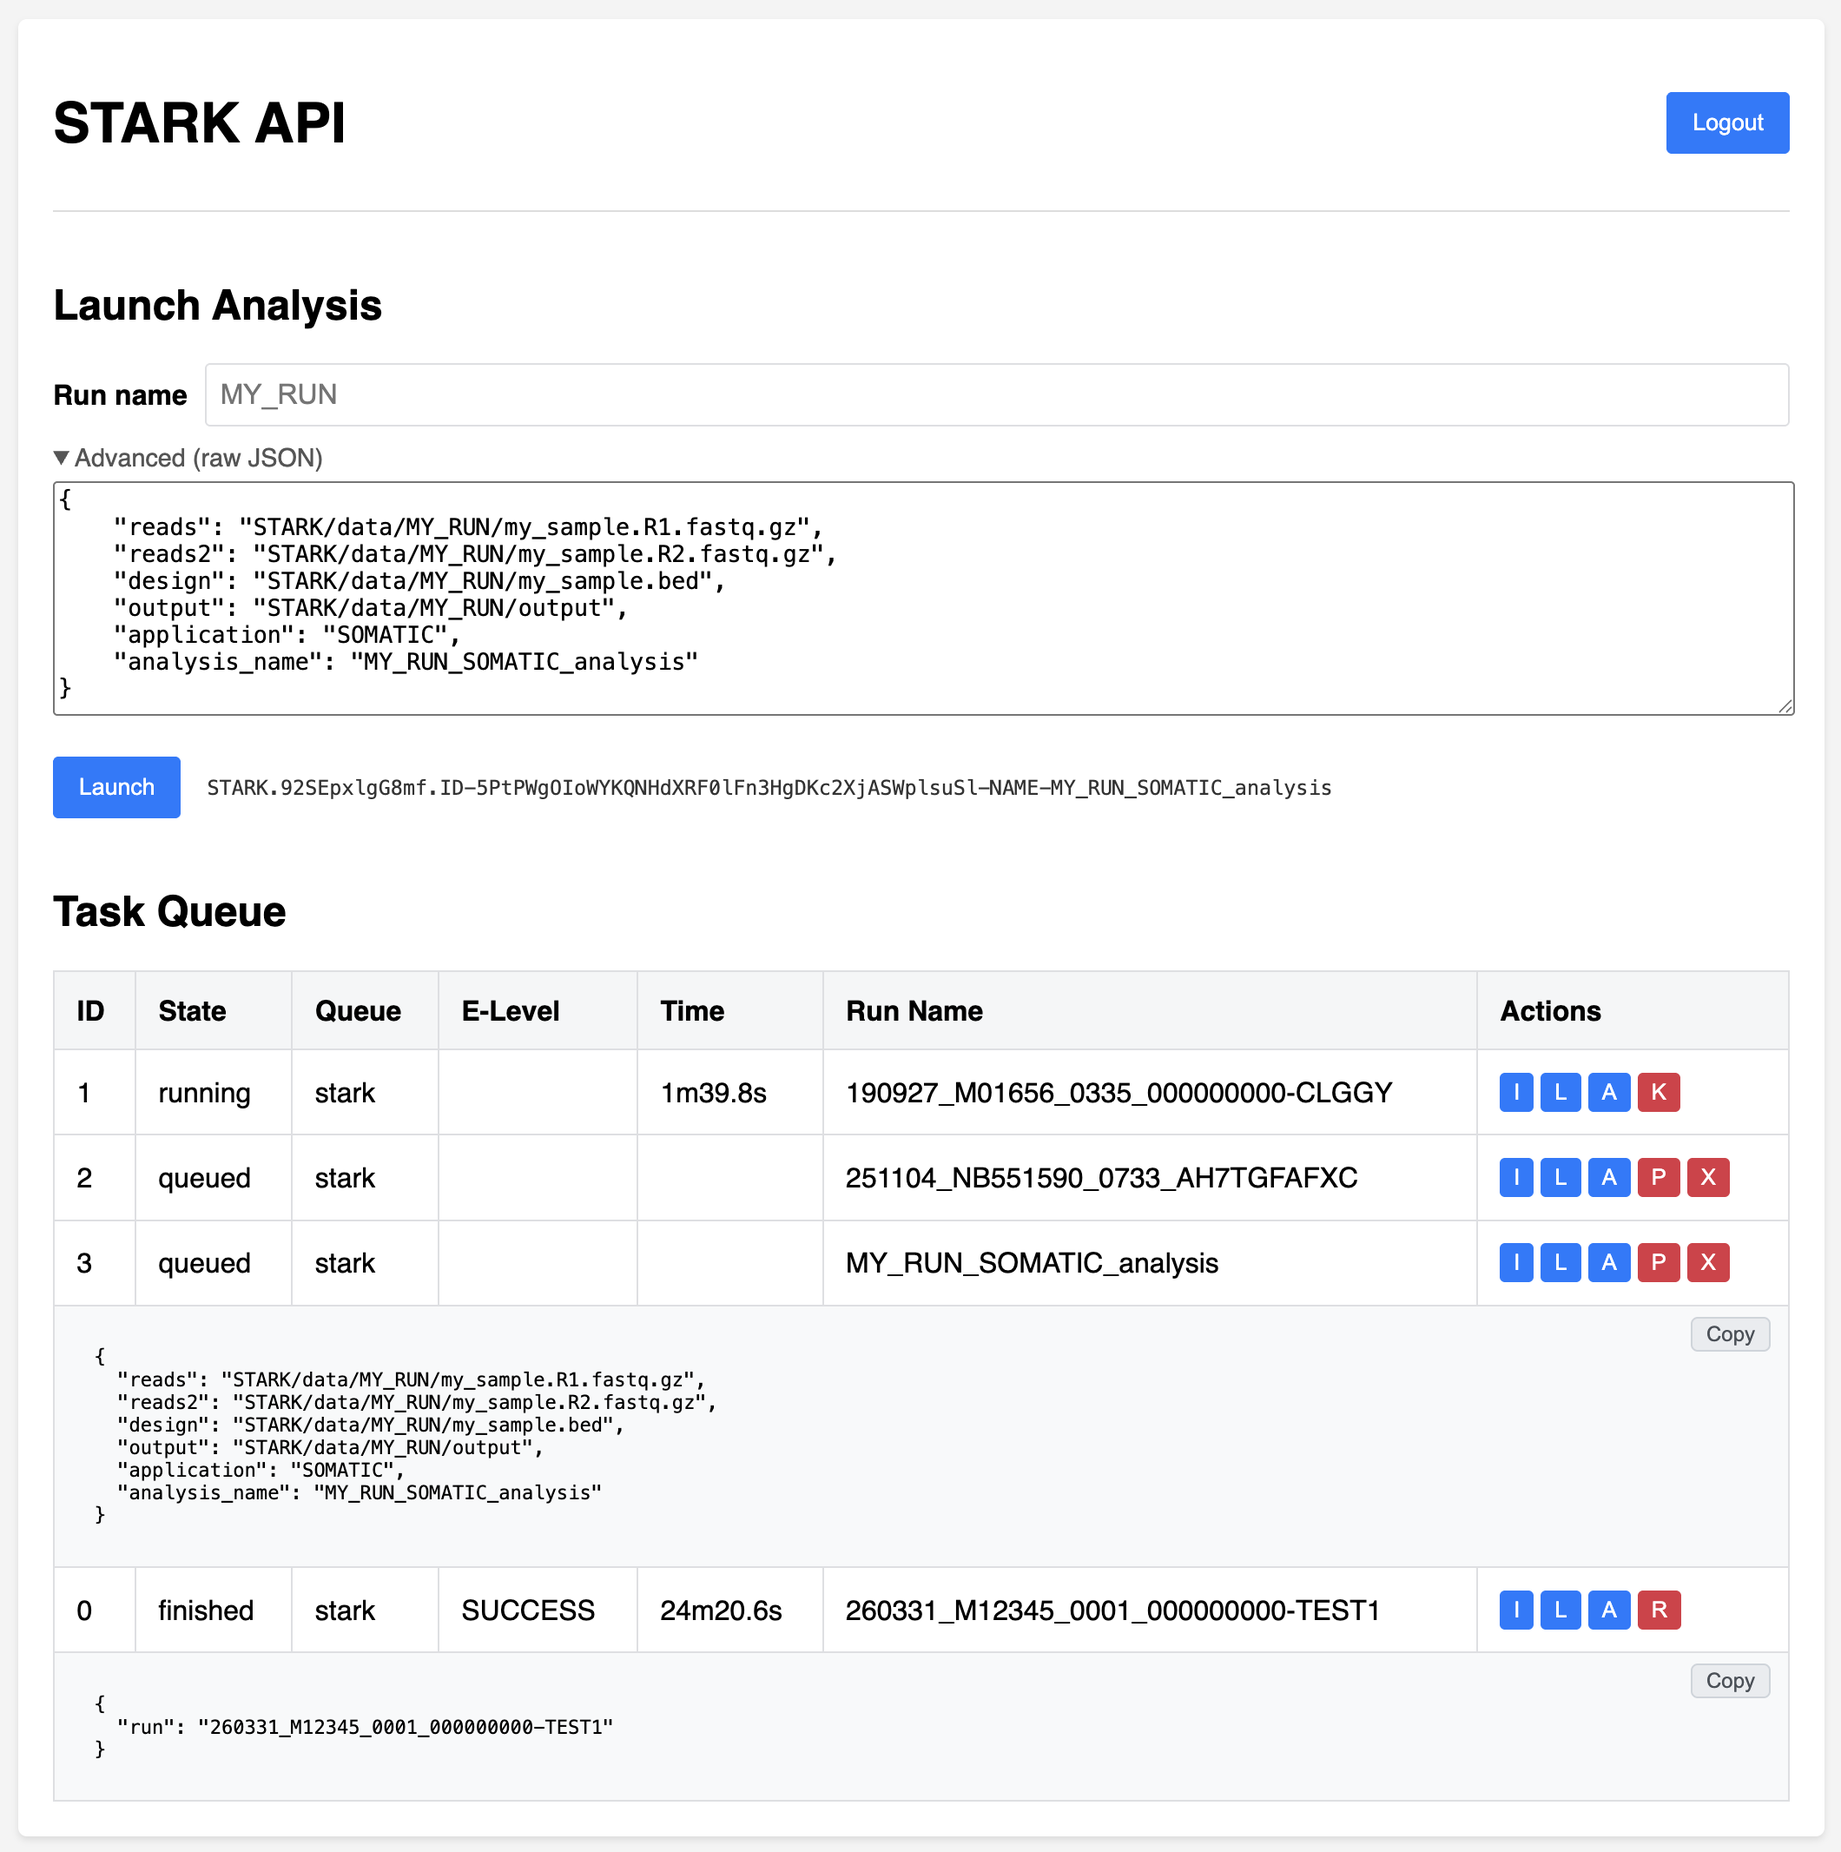
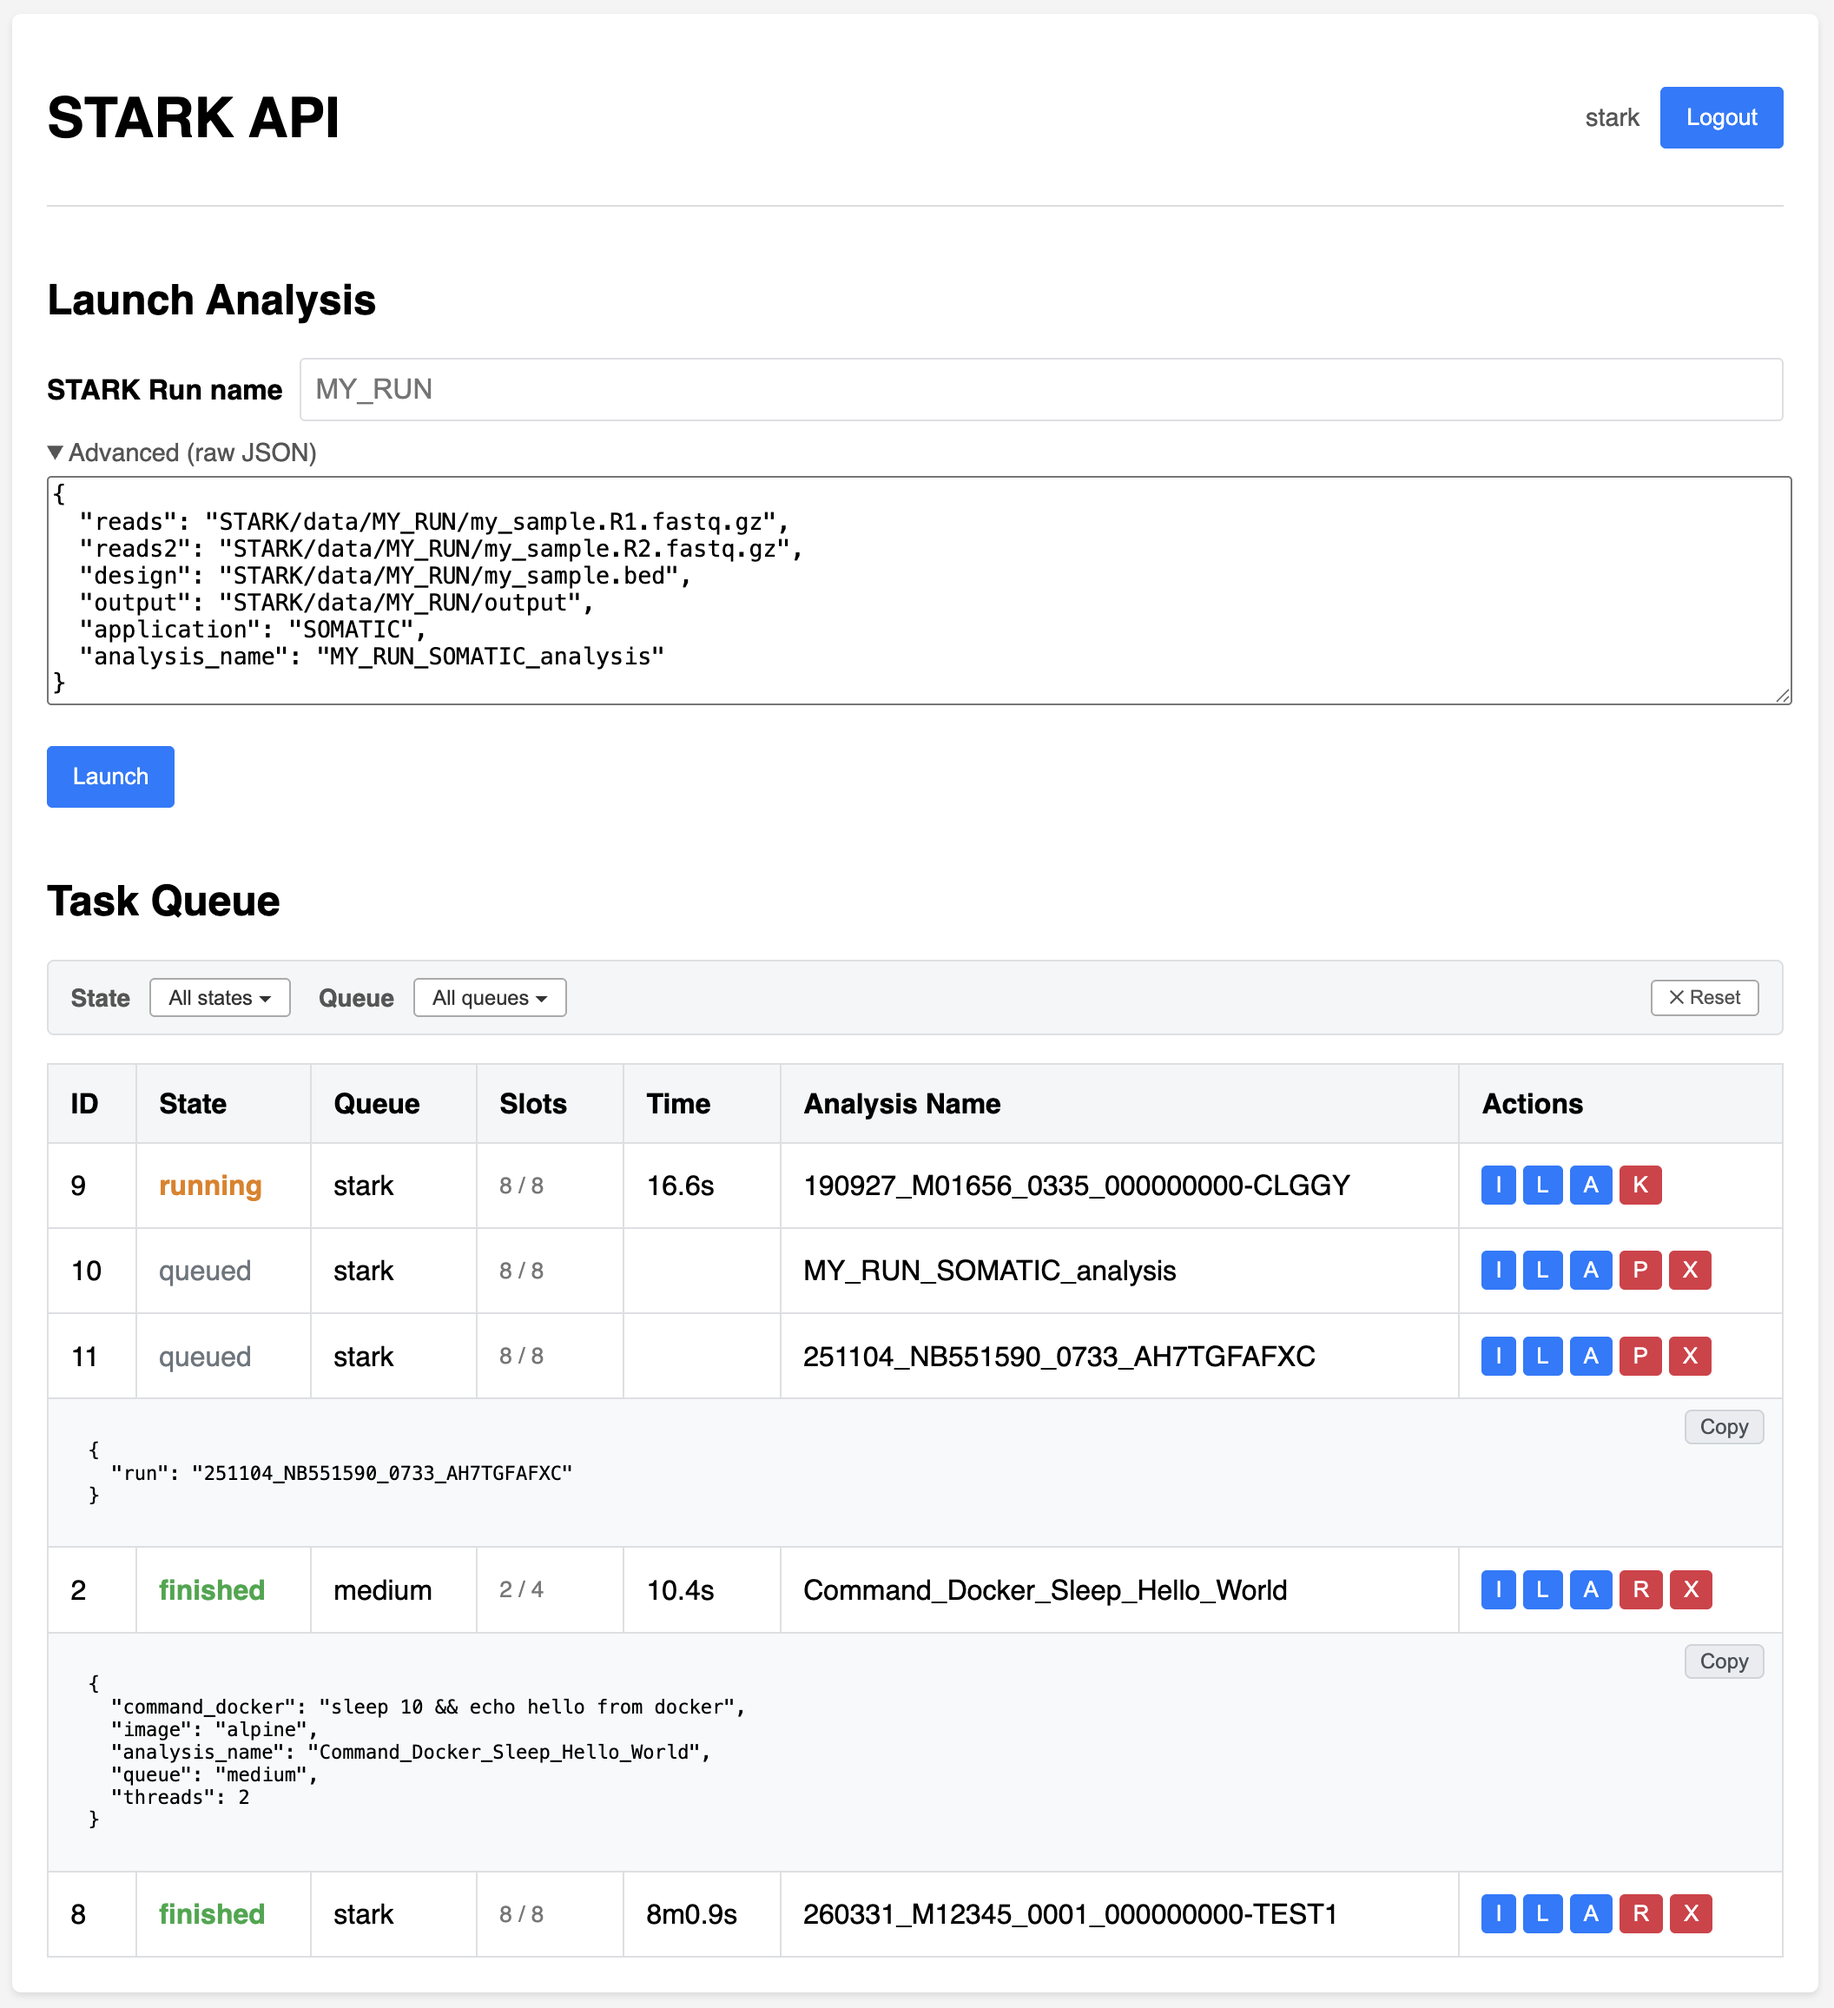
Improve API service, threads for docker, e-level, size of columns

diff --git a/services/STARK/stark/api/dockerfile/static/script.js b/services/STARK/stark/api/dockerfile/static/script.js
@@ -171,13 +171,16 @@ document.addEventListener('DOMContentLoaded', () => {
                 let stateClass = '';
                 if (stateLC === 'running') stateClass = 'state-running';
                 else if (stateLC === 'queued') stateClass = 'state-queued';
-                else if (stateLC === 'finished') stateClass = task.elevel && task.elevel.startsWith('FAILED') ? 'state-finished-failed' : 'state-finished-success';
+                // else if (stateLC === 'finished') stateClass = task.elevel && task.elevel.startsWith('FAILED') ? 'state-finished-failed' : 'state-finished-success';
+                else if (stateLC === 'finished') stateClass = !task.elevel || task.elevel.startsWith('FAILED') ? 'state-finished-failed' : 'state-finished-success';
+                // Killed command
+                if (stateLC === 'finished' && !task.elevel) task.elevel = 'KILLED';
                 row.innerHTML = `
                     <td>${task.id}</td>
-                    <td class="${stateClass}">${task.state}</td>
+                    <td class="${stateClass}" title="${task.elevel != '' ? 'Error level: ' + task.elevel : ''}">${task.state}</td>
                     <td>${task.queue || ''}</td>
                     <td class="task-slots-cell" title="${task.task_slots != null ? 'Uses ' + task.task_slots + ' / ' + task.queue_slots + ' slots' : 'Slot info unavailable'}">${task.task_slots != null ? task.task_slots + ' / ' + task.queue_slots : '\u2014'}</td>
-                    <td>${task.elevel}</td>
+                    <!-- <td>${task.elevel}</td> -->
                     <td>${formatTime(task.times)}</td>
                     <td>${task.run_name}</td>
                 `;
@@ -193,7 +196,7 @@ document.addEventListener('DOMContentLoaded', () => {
                     if (['kill', 'prioritize', 'remove', 'relaunch'].includes(act) && !isAdmin) return;
                     const btn = document.createElement('button');
                     btn.textContent = label;
-                    btn.title = `${label} for task ${task.id} on queue ${task.queue || 'default'}`;
+                    btn.title = `${act.toUpperCase()} task #${task.id} [${task.queue || 'default'}]`;
                     if (['kill', 'prioritize', 'remove', 'relaunch'].includes(act)) {
                         btn.classList.add('btn-danger');
                     }
@@ -203,7 +206,7 @@ document.addEventListener('DOMContentLoaded', () => {
                     } else if (['kill', 'prioritize', 'remove', 'relaunch'].includes(act)) {
                         btn.addEventListener('click', async () => {
                             const actionName = actionLabels[act] || act;
-                            if (!confirm(`${actionName} task #${task.id} on queue "${task.queue || 'default'}" ?`)) return;
+                            if (!confirm(`${actionName.toUpperCase()} task #${task.id} [${task.queue || 'default'}] ?`)) return;
                             btn.disabled = true;
                             const originalText = btn.textContent;
                             btn.textContent = '…';

diff --git a/services/STARK/stark/api/dockerfile/static/style.css b/services/STARK/stark/api/dockerfile/static/style.css
@@ -10,6 +10,7 @@ body {
     border-radius: 5px;
     box-shadow: 0 2px 4px rgba(0,0,0,0.1);
     min-width: 1000px;
+    min-width: 1000px;
     max-width: 1000px;
     margin: auto;
 }
@@ -43,6 +44,7 @@ body {
 
 #analysis-form-container, #queue-container {
     flex: 1;
+    width: 1000px;
     min-width: 1000px;
     max-width: 1000px;
 }
@@ -256,6 +258,18 @@ pre {
     width: 160px;
     min-width: 160px;
     max-width: 160px;
+}
+
+#queue-table th:nth-child(6),
+#queue-table td:nth-child(6) {
+    min-width: 300px;
+}
+
+#analysis-name {
+    width: 400px;
+    min-width: 400px;
+    max-width: 400px;
+    background-color: #f80000;
 }
 
 #queue-table th, #queue-table td {

diff --git a/services/STARK/stark/api/dockerfile/templates/index.html b/services/STARK/stark/api/dockerfile/templates/index.html
@@ -64,9 +64,9 @@
                                 <th>Queue</th>
                                 <th>Slots</th>
                                 <!-- <th>Output</th> -->
-                                <th>E-Level</th>
+                                <!-- <th>E-Level</th> -->
                                 <th>Time</th>
-                                <th>Analysis Name</th>
+                                <th class="analysis-name">Analysis Name</th>
                                 <th>Actions</th>                            
                             </tr>
                         </thead>

diff --git a/services/STARK/stark/api/dockerfile/app.py b/services/STARK/stark/api/dockerfile/app.py
@@ -644,9 +644,17 @@ def queue_analysis(json_input: dict) -> str:
     _ts_env, _max_slots = _prepare_queue_for_submission(json_input.get("queue"))
     _task_slots = _resolve_task_slots(json_input, _max_slots)
 
+    # Ensure the 'threads' key is set in the JSON input for the Docker container to read, using the same logic as _resolve_task_slots.
+    threads = (_task_slots == 0) and _max_slots or _task_slots
+    json_input["threads"] = threads
+
     # Write the .json as-is — STARK reads this file; 'threads' is a recognised key.
     with open(analysisFILE, "w") as f:
         f.write(json.dumps(json_input))
+
+    # CPU for docker
+    if "--cpus" not in docker_parameters:
+        docker_parameters += f" --cpus={threads} "
 
     ts_cmd = f"{_ts_env}{ts} -N {_task_slots} -L {analysisIDNAME}" if ts else ""
     myCmd = (
@@ -745,8 +753,20 @@ def queue_command_docker(json_input: dict) -> str:
     _ts_env, _max_slots = _prepare_queue_for_submission(json_input.get("queue"))
     _task_slots = _resolve_task_slots(json_input, _max_slots)
 
+    # with open(analysisFILE, "w") as f:
+    #     f.write(json.dumps(json_input))
+
+    # Ensure the 'threads' key is set in the JSON input for the Docker container to read, using the same logic as _resolve_task_slots.
+    threads = (_task_slots == 0) and _max_slots or _task_slots
+    json_input["threads"] = threads
+
+    # Write the .json as-is — STARK reads this file; 'threads' is a recognised key.
     with open(analysisFILE, "w") as f:
         f.write(json.dumps(json_input))
+
+    # CPU for docker
+    if "--cpus" not in docker_parameters:
+        docker_parameters += f" --cpus={threads} "
 
     ts_cmd = f"{_ts_env}{ts} -N {_task_slots} -L {analysisIDNAME}" if ts else ""
     myCmd = (
